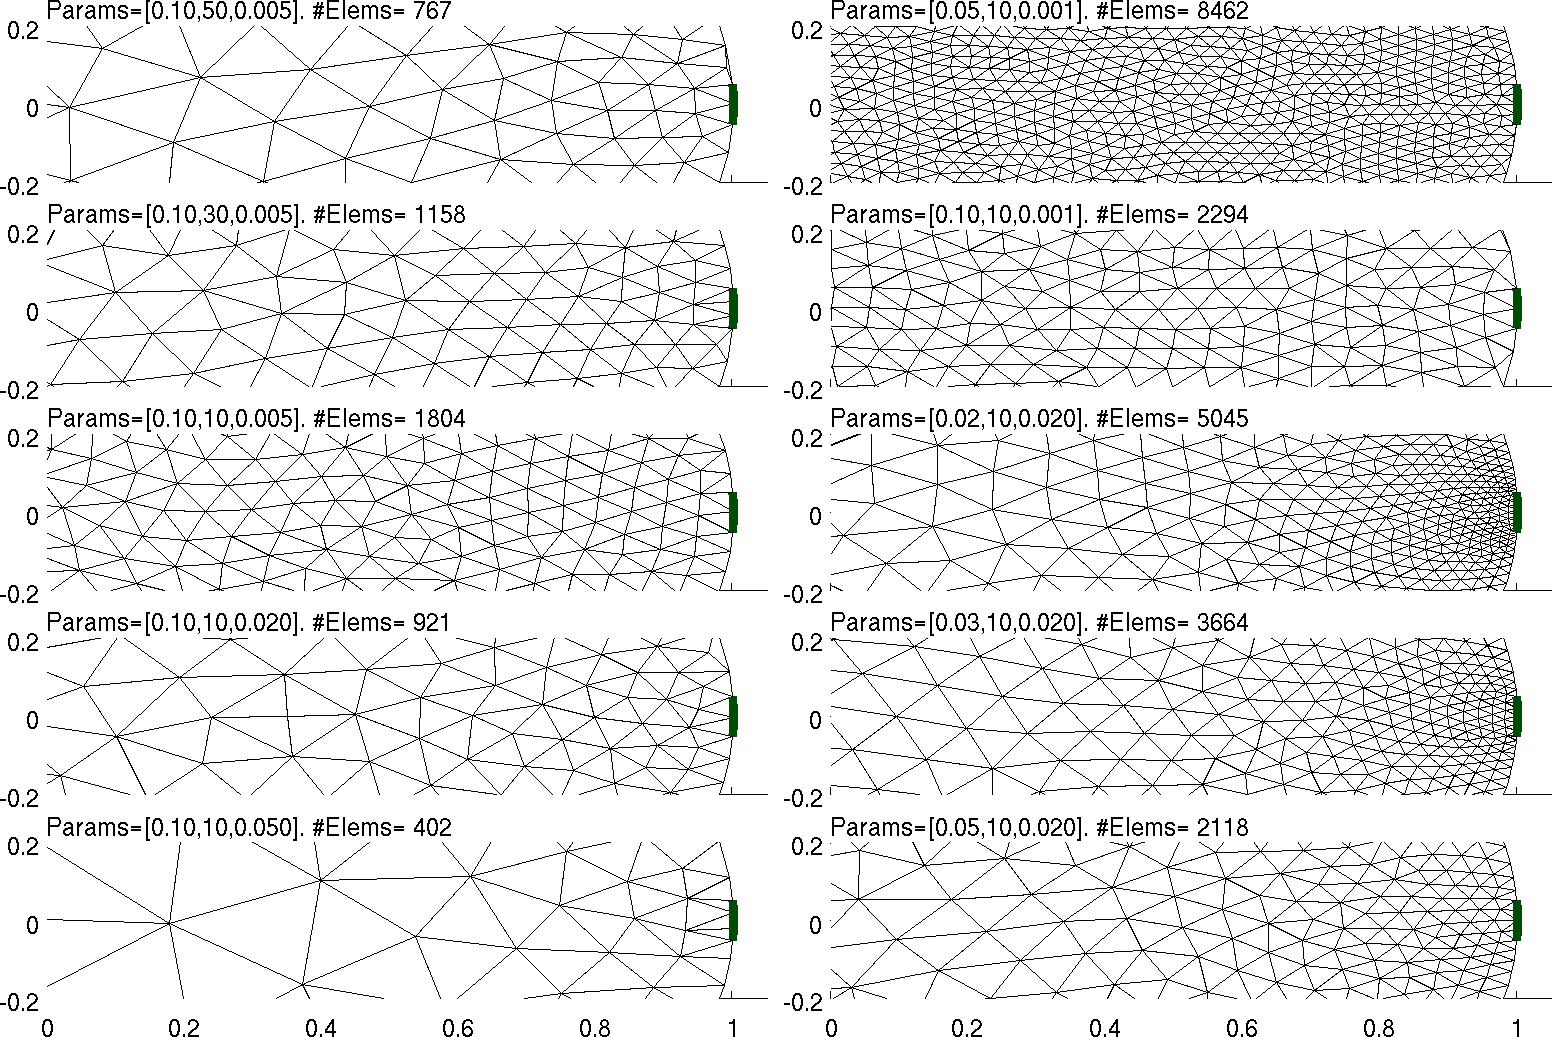
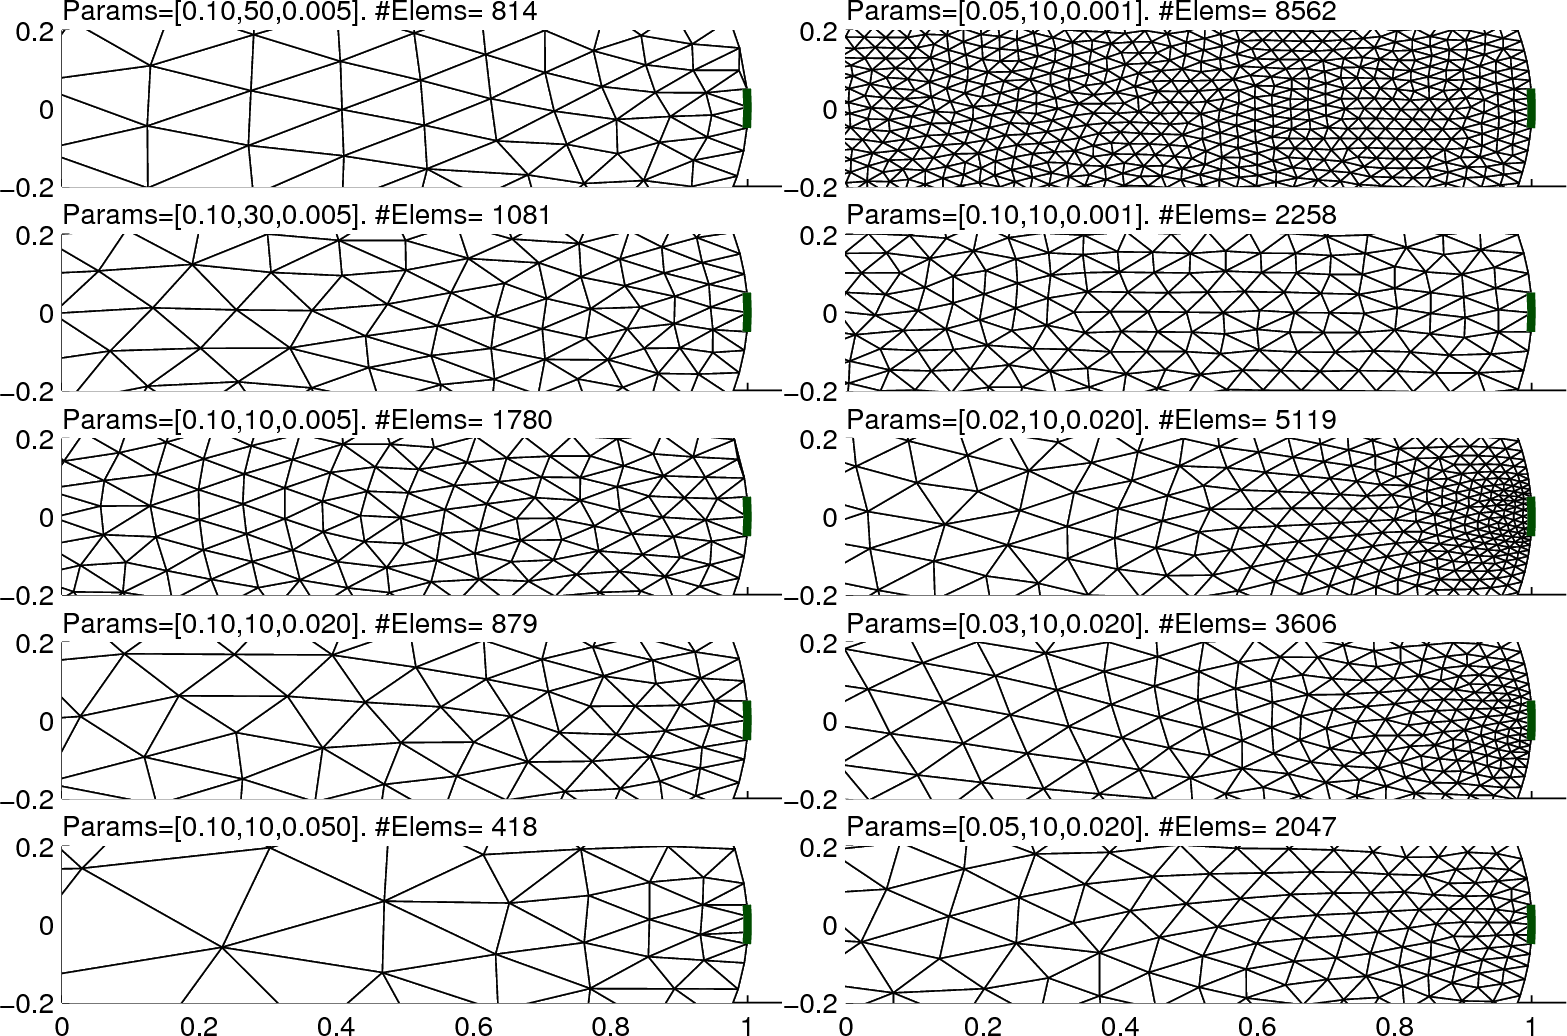
convert to print_convert
git-svn-id: svn://svn.code.sf.net/p/eidors3d/code/trunk@2768 82006732-fb7e-4a22-9f28-86a212cce563

diff --git a/htdocs/tutorial/distmesh/circ_2d_model01.m b/htdocs/tutorial/distmesh/circ_2d_model01.m
@@ -7,10 +7,12 @@ subplot(221);
 fmdl= dm_2d_circ_pt_elecs( elec_pts, [], [0.10,10,0.05] );
 show_fem(fmdl)
 hold on; plot(0.5,0.5,'o','Color',[0,0.5,0]); hold off
+axis equal
 
 subplot(222);
 fmdl= dm_2d_circ_pt_elecs( elec_pts, [], [0.10,10,0.02] );
 show_fem(fmdl)
 hold on; plot(0.5,0.5,'o','Color',[0,0.5,0]); hold off
+axis equal
 
-print -dpng -r125 circ_2d_model01.png
+print_convert circ_2d_model01.png '-density 125'

diff --git a/htdocs/tutorial/distmesh/circ_2d_model02.m b/htdocs/tutorial/distmesh/circ_2d_model02.m
@@ -17,4 +17,4 @@ subplot(222);
 fmdl= dm_2d_circ_pt_elecs( elec_pts, [], [0.10,10,0.02] );
 show_fem(fmdl);
 
-print -dpng -r125 circ_2d_model02.png
+print_convert circ_2d_model02.png '-density 125'

diff --git a/htdocs/tutorial/distmesh/circ_2d_model03.m b/htdocs/tutorial/distmesh/circ_2d_model03.m
@@ -33,4 +33,4 @@ for i=1:5; for j=0:1
    if i>1; set(gca,'XTickLabel',[]); end
 end; end
 
-print -dpng -r200 circ_2d_model03.png
+print_convert circ_2d_model03.png '-density 200'
